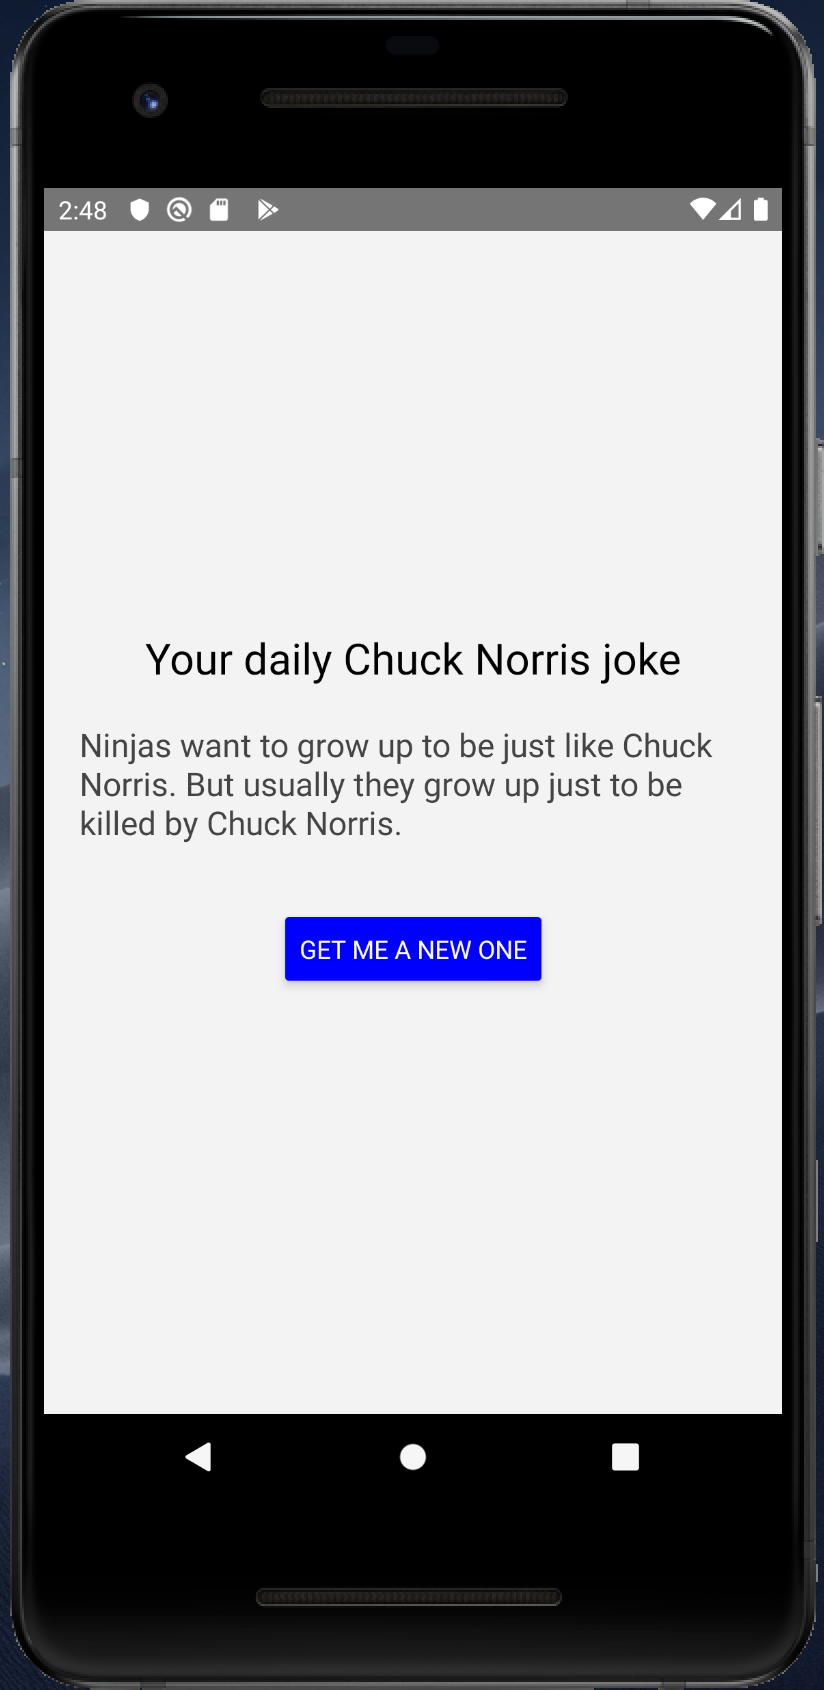
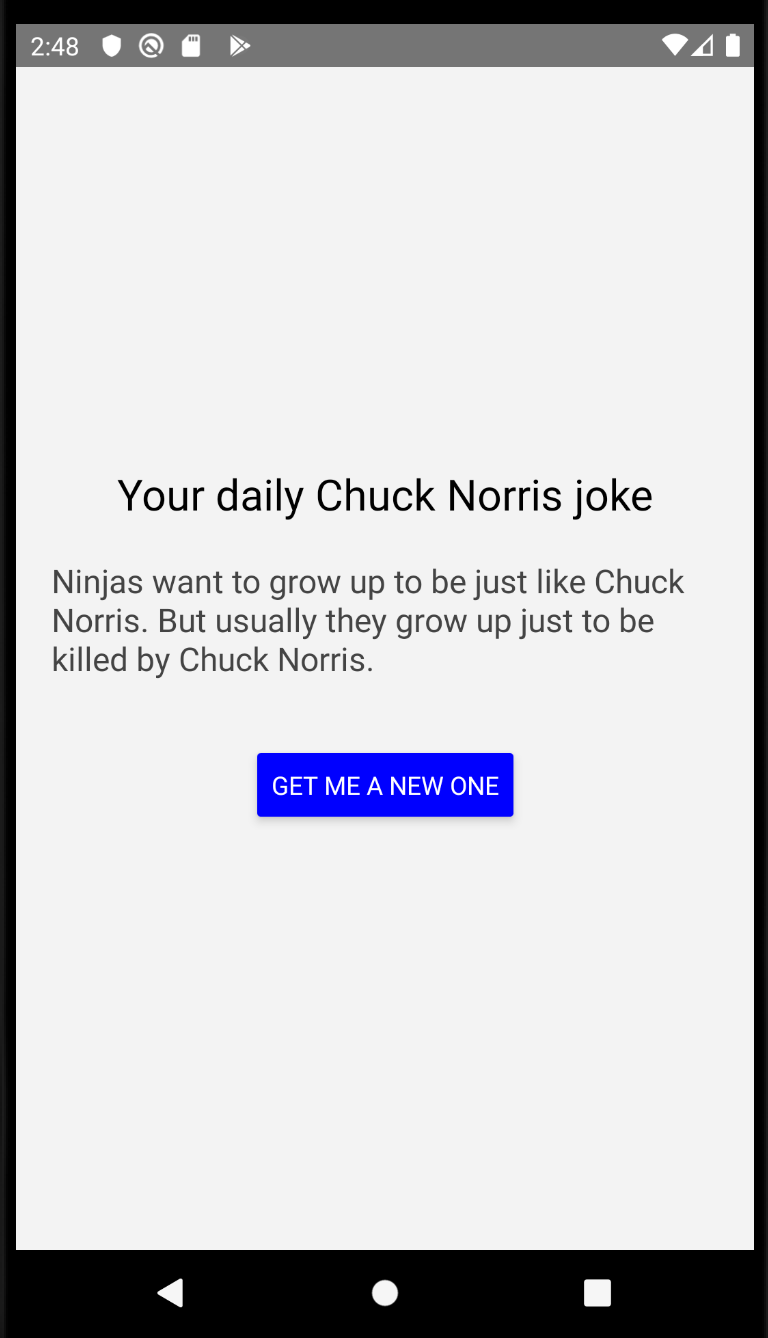
Tweak screenshot.

diff --git a/README.md b/README.md
@@ -2,7 +2,9 @@
 
 Powered by [React Native](https://facebook.github.io/react-native/) and the [Internet Chuck Norris Database](http://www.icndb.com/api/).
 
-![Application](./screenshot.png 'Application')
+<p align="center">
+<img src="./screenshot.png" alt="drawing" width="200"/>
+</p>
 
 ## :arrow_forward: Usage
 
